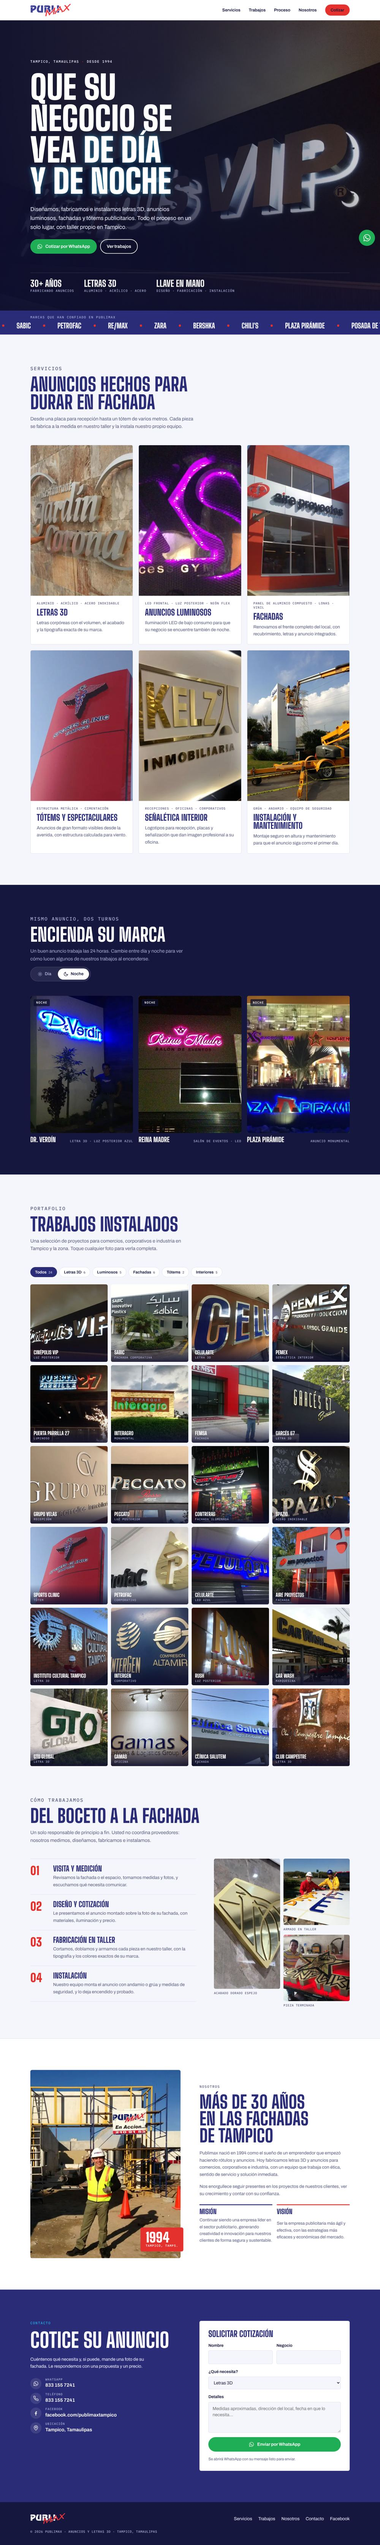
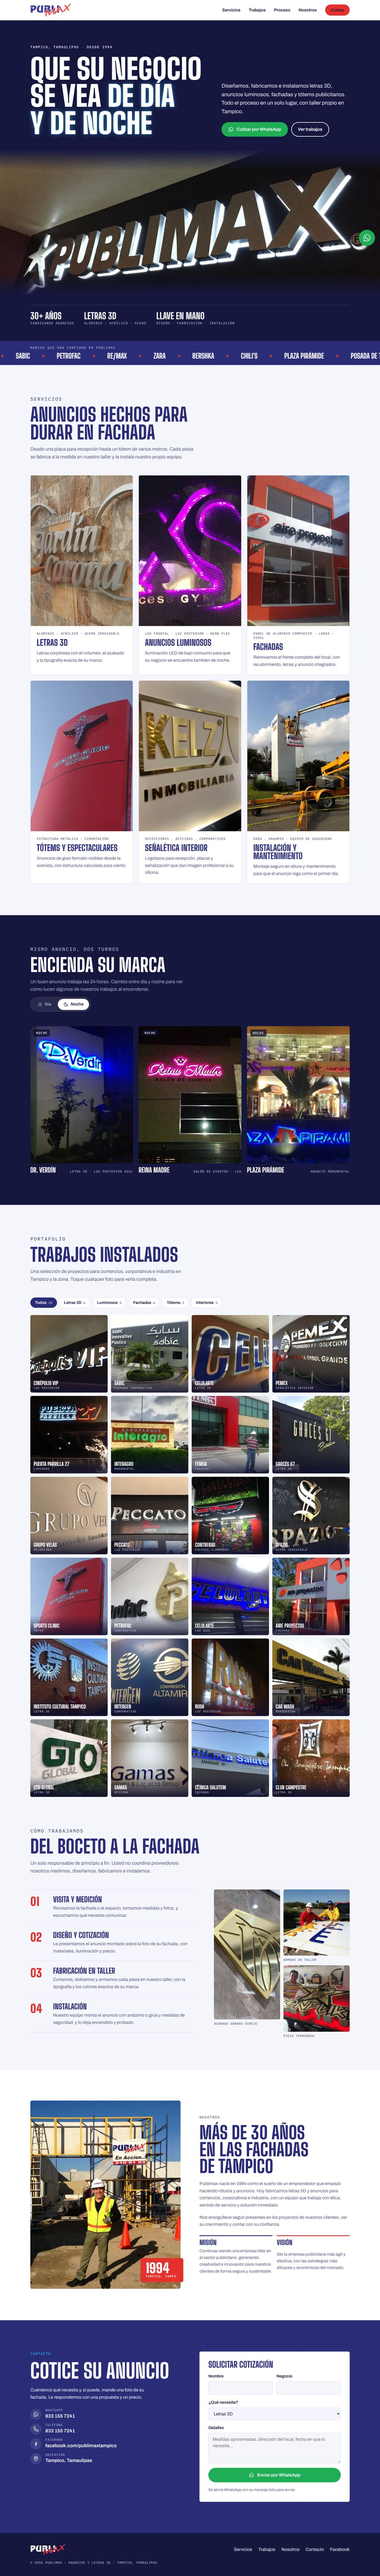
Cambiar la foto de portada por el letrero de Publimax
La foto va ahora en una franja panorámica debajo del titular para que el
letrero se lea completo en computadora y celular.

Claude-Session: https://claude.ai/code/session_01DNigNbBhjw9VVVrEVmLUBv

diff --git a/index.html b/index.html
@@ -8,7 +8,7 @@
 <meta name="description" content="Publimax: fabricación e instalación de letras 3D, anuncios luminosos, fachadas, tótems y espectaculares en Tampico, Tamaulipas, desde 1994.">
 <meta property="og:title" content="Publimax · Anuncios y letras 3D en Tampico">
 <meta property="og:description" content="Diseño, fabricación e instalación de anuncios para fachadas, letras 3D y anuncios luminosos desde 1994.">
-<meta property="og:image" content="assets/img/cinepolis-vip.webp">
+<meta property="og:image" content="assets/img/portada-publimax.webp">
 <meta property="og:locale" content="es_MX">
 <meta name="theme-color" content="#2b2c78">
 <link rel="icon" href="assets/img/logo-publimax.png">
@@ -89,18 +89,25 @@ p{margin:0}
 }
 
 /* Hero */
-.hero{position:relative;background:var(--navy-deep);color:var(--white);overflow:hidden;isolation:isolate}
-.hero picture,.hero .hero-img{position:absolute;inset:0;z-index:-2}
-.hero .hero-img{width:100%;height:100%;object-fit:cover;object-position:60% 40%}
-.hero::after{content:"";position:absolute;inset:0;z-index:-1;background:linear-gradient(90deg,rgba(14,15,46,.94) 0%,rgba(14,15,46,.78) 42%,rgba(14,15,46,.15) 100%),linear-gradient(0deg,rgba(14,15,46,.85) 0%,rgba(14,15,46,0) 40%)}
-.hero .wrap{padding-block:clamp(72px,12vw,140px) clamp(40px,6vw,64px);display:grid;gap:28px}
+.hero{background:var(--navy-deep);color:var(--white)}
+.hero .wrap{padding-block:clamp(48px,7vw,88px) clamp(32px,4vw,48px);display:grid;grid-template-columns:minmax(0,1.15fr) minmax(0,.85fr);gap:24px clamp(28px,5vw,64px);align-items:end}
+.hero-copy{display:grid;gap:22px;align-content:end}
+.hero-side{display:grid;gap:22px;align-content:end}
 .hero .eyebrow{color:var(--on-dark)}
 .hero .eyebrow b{color:var(--red);font-weight:500}
-.hero h1{font-size:clamp(3.2rem,10vw,7.4rem);max-width:11ch;font-weight:900}
+.hero h1{font-size:clamp(3rem,7.6vw,6.4rem);max-width:12ch;font-weight:900}
 .hero h1 .glow{color:var(--white);text-shadow:0 0 18px rgba(34,176,230,.55),0 0 2px rgba(255,255,255,.9)}
-.hero .lead{font-size:clamp(1.05rem,1.8vw,1.25rem);max-width:52ch;color:var(--on-dark)}
+.hero .lead{font-size:clamp(1.05rem,1.6vw,1.2rem);max-width:46ch;color:var(--on-dark)}
+.hero-photo{margin:0;position:relative}
+.hero-photo img{width:100%;height:auto;aspect-ratio:21/8;object-fit:cover;object-position:50% 58%}
+.hero-photo::after{content:"";position:absolute;inset:0;pointer-events:none;background:linear-gradient(180deg,var(--navy-deep) 0%,rgba(22,23,63,0) 14%,rgba(22,23,63,0) 86%,var(--navy-deep) 100%)}
+@media (max-width:860px){
+  .hero .wrap{grid-template-columns:1fr}
+  .hero-photo img{aspect-ratio:16/9;object-position:45% 58%}
+}
 .hero-actions{display:flex;flex-wrap:wrap;gap:12px}
-.hero-facts{display:flex;flex-wrap:wrap;gap:12px 36px;margin-top:clamp(16px,4vw,40px);padding-top:22px;border-top:1px solid rgba(255,255,255,.18)}
+.hero-facts{display:flex;flex-wrap:wrap;gap:12px 36px;padding-top:22px;border-top:1px solid rgba(255,255,255,.18)}
+.hero .hero-band .wrap{display:block;padding-block:clamp(24px,3vw,36px) clamp(36px,5vw,56px)}
 .hero-facts div{display:grid;gap:2px}
 .hero-facts strong{font:800 2rem/1 var(--f-display);text-transform:uppercase}
 .hero-facts span{font:500 .74rem/1.3 var(--f-mono);letter-spacing:.1em;text-transform:uppercase;color:var(--on-dark-muted)}
@@ -296,19 +303,29 @@ dialog.lightbox::backdrop{background:rgba(10,11,32,.92)}
 
 <main>
   <section class="hero" id="inicio">
-    <img class="hero-img" src="assets/img/cinepolis-vip.webp" alt="Letras 3D iluminadas de Cinépolis VIP instaladas por Publimax" fetchpriority="high">
     <div class="wrap">
-      <p class="eyebrow">Tampico, Tamaulipas <b>·</b> desde 1994</p>
-      <h1>Que su negocio se vea <span class="glow">de día y de noche</span></h1>
-      <p class="lead">Diseñamos, fabricamos e instalamos letras 3D, anuncios luminosos, fachadas y tótems publicitarios. Todo el proceso en un solo lugar, con taller propio en Tampico.</p>
-      <div class="hero-actions">
-        <a class="btn btn-wa js-wa" href="https://wa.me/528331557241" target="_blank" rel="noopener"><svg><use href="#i-wa"/></svg>Cotizar por WhatsApp</a>
-        <a class="btn btn-ghost" href="#trabajos">Ver trabajos</a>
+      <div class="hero-copy">
+        <p class="eyebrow">Tampico, Tamaulipas <b>·</b> desde 1994</p>
+        <h1>Que su negocio se vea <span class="glow">de día y de noche</span></h1>
       </div>
-      <div class="hero-facts">
-        <div><strong>30+ años</strong><span>Fabricando anuncios</span></div>
-        <div><strong>Letras 3D</strong><span>Aluminio · acrílico · acero</span></div>
-        <div><strong>Llave en mano</strong><span>Diseño · fabricación · instalación</span></div>
+      <div class="hero-side">
+        <p class="lead">Diseñamos, fabricamos e instalamos letras 3D, anuncios luminosos, fachadas y tótems publicitarios. Todo el proceso en un solo lugar, con taller propio en Tampico.</p>
+        <div class="hero-actions">
+          <a class="btn btn-wa js-wa" href="https://wa.me/528331557241" target="_blank" rel="noopener"><svg><use href="#i-wa"/></svg>Cotizar por WhatsApp</a>
+          <a class="btn btn-ghost" href="#trabajos">Ver trabajos</a>
+        </div>
+      </div>
+    </div>
+    <figure class="hero-photo">
+      <img src="assets/img/portada-publimax.webp" alt="Letrero de Publimax en letras 3D de aluminio con luz posterior" fetchpriority="high" width="1448" height="1086">
+    </figure>
+    <div class="hero-band">
+      <div class="wrap">
+        <div class="hero-facts">
+          <div><strong>30+ años</strong><span>Fabricando anuncios</span></div>
+          <div><strong>Letras 3D</strong><span>Aluminio · acrílico · acero</span></div>
+          <div><strong>Llave en mano</strong><span>Diseño · fabricación · instalación</span></div>
+        </div>
       </div>
     </div>
   </section>
